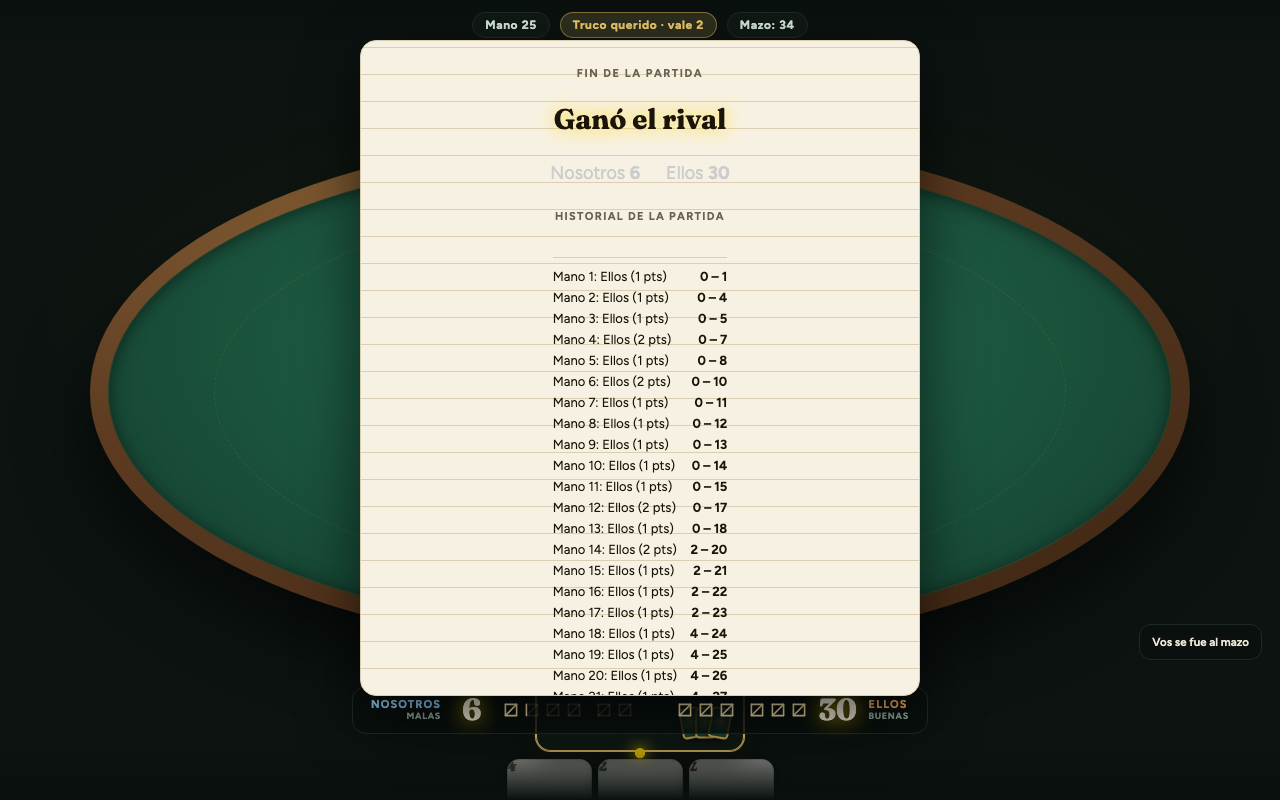
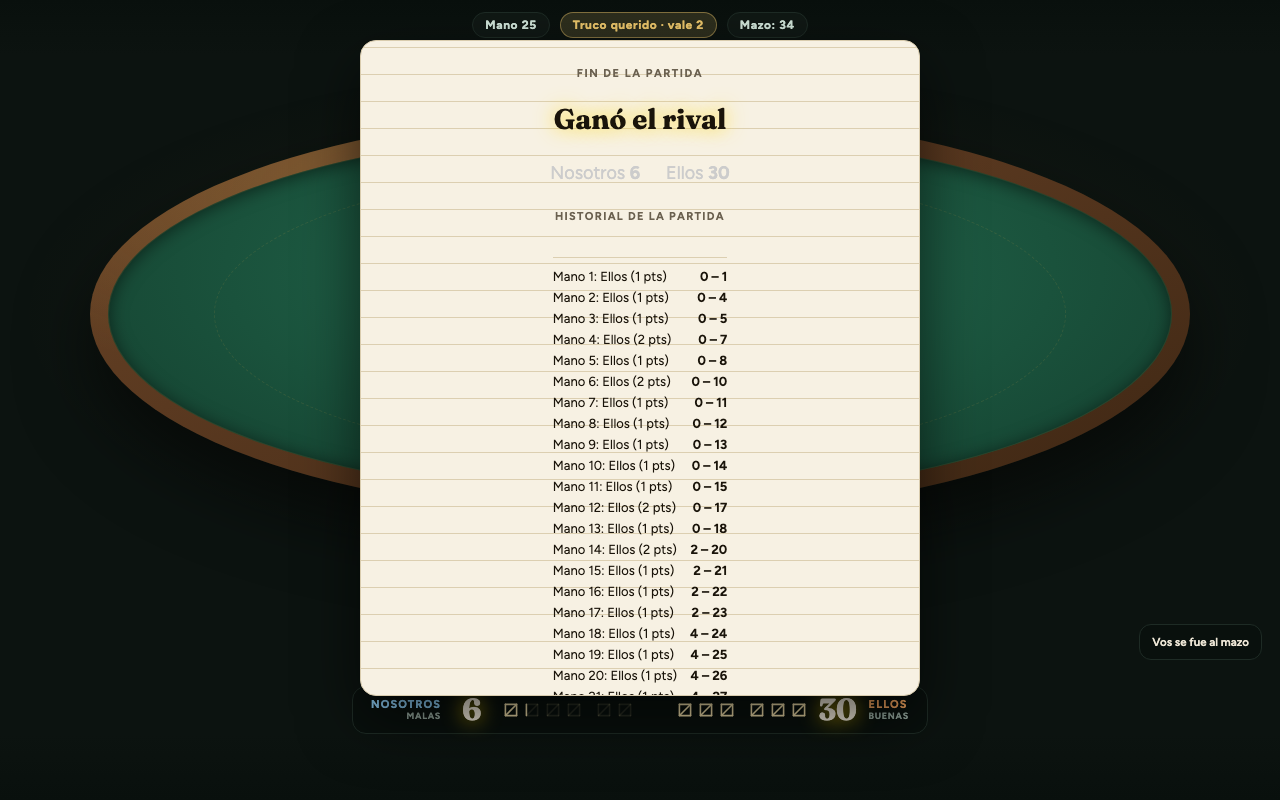
fix(ui-04): layout sobre .felt-room + clamp de la mano, tamaños de carta CSS-validos, e2e/layout.spec.ts + axe (AC 12, AC 14)

Changed region(s): [[0.7188, 0.1562, 0.9375, 0.7812], [0.0625, 0.1562, 0.2812, 0.7812], [0.375, 0.9062, 0.625, 1.0]]

diff --git a/src/ui/UIManager.ts b/src/ui/UIManager.ts
@@ -349,7 +349,7 @@ export class UIManager {
 
   /** Dimensiona la mesa y posiciona la elipse según el viewport actual. */
   private layoutTable(board: HTMLElement, playerCount: number): void {
-    const vp: Viewport = { width: window.innerWidth, height: window.innerHeight };
+    const vp: Viewport = this.tableViewport();
     const mobile = this.isMobile;
     const { w: seatW, h: seatH } = this.seatBox();
     const ellipse = tableEllipse(vp, { seatWidth: seatW, seatHeight: seatH });
@@ -406,12 +406,29 @@ export class UIManager {
     return this.isMobile ? { w: 118, h: 54 } : { w: 200, h: 72 };
   }
 
+  /** Altura que ocupa la mano propia debajo del asiento (xl 186 / lg 156 + margen). */
+  private handExtra(): number {
+    return this.isMobile ? 168 : 202;
+  }
+
+  /**
+   * Viewport de juego real: el rectángulo de `.felt-room` (dentro de la sala
+   * viven asientos y mano; arriba/top-bar y abajo/marcador+controles son overlays).
+   */
+  private tableViewport(): Viewport {
+    const room = this.container.querySelector<HTMLElement>('.felt-room');
+    if (room && room.clientHeight > 0) {
+      return { width: room.clientWidth, height: room.clientHeight };
+    }
+    return { width: window.innerWidth, height: window.innerHeight };
+  }
+
   private renderPlayers(params: RenderParams): void {
     const board = this.container.querySelector('.game-board');
     const seatsLayer = this.container.querySelector('.seats-layer');
     if (!board || !seatsLayer) return;
 
-    const vp: Viewport = { width: window.innerWidth, height: window.innerHeight };
+    const vp: Viewport = this.tableViewport();
     const { w: seatW, h: seatH } = this.seatBox();
 
     // Baza actual para saber quién ya jugó (sus dorsos bajan).
@@ -425,7 +442,10 @@ export class UIManager {
     for (const player of params.players) {
       const hand = params.hands[player.id] || [];
       const isHuman = player.isHuman;
-      const slot = seatPosition(player.position, params.players.length, vp, { seatWidth: seatW, seatHeight: seatH });
+      // La mano del humano cuelga debajo del asiento: entra en el clamp del layout.
+      const extraBelow = isHuman ? this.handExtra() : 0;
+      const slot = seatPosition(player.position, params.players.length, vp,
+        { seatWidth: seatW, seatHeight: seatH, extraBelow });
 
       const wrap = document.createElement('div');
       wrap.className = 'seat-slot' + (player.isHuman ? ' human-area' : '');
@@ -533,14 +553,18 @@ export class UIManager {
       for (const played of result.cards) {
         const player = params.players.find((p) => p.id === played.playerId);
         if (!player) continue;
-        const vp: Viewport = { width: window.innerWidth, height: window.innerHeight };
+        const vp: Viewport = this.tableViewport();
         const box = this.seatBox();
         const slot = seatPosition(player.position, params.players.length, vp,
           { seatWidth: box.w, seatHeight: box.h });
+        // 25 % del camino entre el centro del paño y el asiento (no tapa la silla).
+        const ell = tableEllipse(vp, { seatWidth: box.w, seatHeight: box.h });
+        const sx = slot.x + box.w / 2;
+        const sy = slot.y + box.h / 2;
         const holder = document.createElement('div');
         holder.className = 'history-round';
-        holder.style.left = `${slot.x + box.w / 2}px`;
-        holder.style.top = `${slot.y}px`;
+        holder.style.left = `${ell.cx + (sx - ell.cx) * 0.25}px`;
+        holder.style.top = `${ell.cy + (sy - ell.cy) * 0.25}px`;
         holder.insertAdjacentHTML('beforeend', renderCard(played.card, {
           size: 'xs',
           state: result.highestCardPlayerId === played.playerId && result.teamWinner !== -1 ? 'winner' : 'normal',

diff --git a/src/ui/layout.ts b/src/ui/layout.ts
@@ -28,6 +28,8 @@ export interface SeatPoint {
 export interface SeatOptions {
   seatWidth?: number;
   seatHeight?: number;
+  /** Altura extra debajo del asiento (la mano del humano); se descuenta del clamp inferior. */
+  extraBelow?: number;
 }
 
 /** Ángulo por slot de asiento según la cantidad de jugadores (slot = posición del jugador). */
@@ -43,12 +45,13 @@ export const SLOT_ANGLES: Record<number, number[]> = {
 export function tableEllipse(viewport: Viewport, options: SeatOptions = {}) {
   const seatW = options.seatWidth ?? 200;
   const seatH = options.seatHeight ?? 72;
+  const extra = options.extraBelow ?? 0;
   const cx = viewport.width / 2;
   const cy = viewport.height * 0.42;
-  // Radios máximos que mantienen el asiento (con su caja) dentro del viewport con 8 px de margen.
+  // Radios máximos que mantienen el asiento (con su caja + mano debajo) dentro del viewport con 8 px de margen.
   const maxRx = Math.max(0, (viewport.width - seatW) / 2 - 8);
   const maxRyTop = Math.max(0, cy - seatH / 2 - 8);
-  const maxRyBottom = Math.max(0, viewport.height - cy - seatH / 2 - 8);
+  const maxRyBottom = Math.max(0, viewport.height - cy - seatH / 2 - 8 - extra);
   return {
     cx,
     cy,
@@ -74,14 +77,15 @@ export function seatPosition(
   if (index < 0 || index >= playerCount) throw new Error(`seatPosition: índice fuera de rango: ${index}`);
 
   const angle = angles[index];
-  const ellipse = tableEllipse(viewport, { seatWidth: seatW, seatHeight: seatH });
+  const ellipse = tableEllipse(viewport, { seatWidth: seatW, seatHeight: seatH, extraBelow: options.extraBelow });
   const rad = (angle * Math.PI) / 180;
   const x = ellipse.cx + ellipse.rx * Math.cos(rad) - seatW / 2;
   const y = ellipse.cy + ellipse.ry * Math.sin(rad) - seatH / 2;
 
-  // Redoble de seguridad: clamp explícito dentro del viewport.
+  // Redoble de seguridad: clamp explícito dentro del viewport (con la mano debajo).
+  const extra = options.extraBelow ?? 0;
   const clampedX = Math.min(Math.max(x, 8), viewport.width - seatW - 8);
-  const clampedY = Math.min(Math.max(y, 8), viewport.height - seatH - 8);
+  const clampedY = Math.min(Math.max(y, 8), viewport.height - seatH - extra - 8);
   return { x: Math.round(clampedX), y: Math.round(clampedY), angle };
 }
 

diff --git a/src/styles.css b/src/styles.css
@@ -1218,7 +1218,7 @@ button.card--playable:hover, button.card--playable:focus-visible { transform: tr
 .seat-played { position: relative; height: 0; display: flex; justify-content: center; z-index: 6; }
 .history-round { position: absolute; z-index: 4; transform: translate(-50%, -50%); }
 .played-card { pointer-events: none; }
-.played-card--history { transform: translate(-50%, -50%) rotate(-4deg); opacity: 0.92; }
+.played-card--history { transform: rotate(-4deg); }
 .seat-slot[data-seat-anchor="top"] .seat-played { order: -1; }
 
 /* Globo de canto (AC 8) */
@@ -1466,7 +1466,7 @@ button.card--playable:hover, button.card--playable:focus-visible { transform: tr
 .round-chip--t1 { color: var(--ellos-ink); background: var(--ellos-soft); border-color: var(--ellos-ink); }
 .hand-history { margin-top: 12px; border-top: 1px solid var(--paper-line); padding-top: 8px; }
 .hand-history-header { font-size: 11px; font-weight: 800; letter-spacing: 0.12em; text-transform: uppercase; color: var(--paper-ink-soft); margin-bottom: 6px; }
-.hand-row { display: flex; justify-content: space-between; gap: 12px; font-size: 13px; padding: 3px 0; border-bottom: 1px dotted var(--paper-line-2); }
+.paper-panel .hand-row { display: flex; justify-content: space-between; gap: 12px; font-size: 13px; padding: 3px 0; border-bottom: 1px dotted var(--paper-line-2); }
 .hand-entry { display: flex; justify-content: space-between; gap: 12px; font-size: 13px; padding: 3px 0; }
 .hand-entry-score { font-weight: 800; }
 .match-meta { display: flex; gap: 18px; margin: 10px 0; font-size: 13px; color: var(--paper-ink-mid); }

diff --git a/src/ui/cardView.ts b/src/ui/cardView.ts
@@ -109,7 +109,7 @@ export function renderCard(card: CardViewData, options: CardRenderOptions = {}):
   }
 
   const face =
-    `<div class="card-face suit-${card.suit}" style="${boxStyle}--cr2:${r2}px;--cframe:${frame}px;--cpad:${s.pad}px;--cpadt:${padT}px;--cnum:${s.num}px;--cpip:${s.pip}px;--cfig:${s.fig}px;">`
+    `<div class="card-face suit-${card.suit}" style="${boxStyle}--cr2:${r2};--cframe:${frame};--cpad:${s.pad};--cpadt:${padT};--cnum:${s.num};--cpip:${s.pip};--cfig:${s.fig};">`
     + `<div class="card-frame"></div>`
     + `<div class="card-corner card-corner--tl"><span class="card-number">${number}</span>`
     + (hasFig ? `<span class="card-figure">${figLabel}</span>` : '')
@@ -121,7 +121,7 @@ export function renderCard(card: CardViewData, options: CardRenderOptions = {}):
   const winnerTag = state === 'winner'
     ? `<span class="card-winner-tag">${escapeHtml(options.tag ?? 'Va ganando')}</span>`
     : '';
-  const winnerRing = state === 'winner' ? `<span class="card-winner-ring" style="--crw:${s.r + 5}px;"></span>` : '';
+  const winnerRing = state === 'winner' ? `<span class="card-winner-ring" style="--crw:${s.r + 5};"></span>` : '';
 
   const inner = face + winnerRing + winnerTag;
 

diff --git a/e2e/layout.spec.ts b/e2e/layout.spec.ts
@@ -180,6 +180,8 @@ for (const [w, h, label] of [[1280, 800, 'desktop'], [390, 844, 'movil']] as con
     await driver.start(4);
     await advanceToHumanWithTrick(page, driver);
     await ensureTrickCards(page, driver);
+    // El reloj congelado traba los timers internos de axe: devolver el tiempo real.
+    await page.clock.resume();
 
     const results = await new AxeBuilder({ page })
       .withTags(['wcag2a', 'wcag2aa', 'wcag21a', 'wcag21aa'])

diff --git a/docs/stories/0-4-ui-mesa-v2-legacy.md b/docs/stories/0-4-ui-mesa-v2-legacy.md
@@ -1,6 +1,6 @@
 # Historia 0-4: UI "mesa v2" sobre el juego actual
 
-Status: ready-for-dev
+Status: review
 wf-id: `0-4-ui-mesa-v2-legacy` · kind: `default`
 Depende de: 0-3 (mergeada: trae el gate `partidas` sin fallas conocidas y toca `App.ts`)
 
@@ -60,16 +60,16 @@ sobre el motor v2 con el mismo diseño, así que escribí CSS y funciones de ren
 
 ## Tareas
 
-- [ ] Tokens + fuentes (AC 1)
-- [ ] `cardView.ts` con SVG de palos y estados (AC 2)
-- [ ] `layout.ts` + tests unitarios de posiciones (AC 3)
-- [ ] Render de mesa, asientos, baza, centro y marcador (AC 3, 4, 5)
-- [ ] Acciones, panel de respuesta, globos y feed (AC 6, 7, 8)
-- [ ] Avisos, resumen, fin, menú (AC 9)
-- [ ] Celular (AC 10)
-- [ ] Selectores + `data-testid` (AC 11)
-- [ ] `e2e/layout.spec.ts` + capturas (AC 12)
-- [ ] Partidas 10 semillas ×2 (AC 13) y Dev Agent Record
+- [x] Tokens + fuentes (AC 1)
+- [x] `cardView.ts` con SVG de palos y estados (AC 2)
+- [x] `layout.ts` + tests unitarios de posiciones (AC 3)
+- [x] Render de mesa, asientos, baza, centro y marcador (AC 3, 4, 5)
+- [x] Acciones, panel de respuesta, globos y feed (AC 6, 7, 8)
+- [x] Avisos, resumen, fin, menú (AC 9)
+- [x] Celular (AC 10)
+- [x] Selectores + `data-testid` (AC 11)
+- [x] `e2e/layout.spec.ts` + capturas (AC 12)
+- [x] Partidas 10 semillas ×2 (AC 13) y Dev Agent Record
 
 ## Dev Notes
 
@@ -101,9 +101,50 @@ PARTIDAS_SEEDS=1,2,3,4,5,6,7,8,9,10 npm run test:partidas   # 2 veces, mismas fi
 ## Dev Agent Record
 
 ### Agent Model Used
+Hermes perfil `trucoai` · modelo `qwen3.8-flash` (provider custom) · sesión 2026-09-24
+
 ### Debug Log References
+- `workflow/runs/0-4-ui-mesa-v2-legacy/implementation.md` (evidencia de verificación completa)
+- Fix clave 1: `--cnum`/`--cr2`/`--cframe` ya no llevan `px` en `cardView.ts` — `calc(var(--cnum) * 1px)` quedaba inválido y el número caía al `font-size` heredado (13 px en celular, AC 12 fallaba).
+- Fix clave 2: el layout de asientos usa el rectángulo de `.felt-room` (`tableViewport()`), no `window.innerHeight`, y descuenta la mano del humano (`extraBelow`) del clamp inferior — antes el asiento de abajo + cartas se salían del viewport (AC 12).
+- Fix clave 3: axe no funciona con el reloj congelado de Playwright (`page.clock`); los tests axe hacen `page.clock.resume()` antes de `analyze()`.
+
 ### Completion Notes List
+- AC 1–14 cumplidos. UI "mesa v2" integrada sobre el juego legacy sin tocar `src/core/` (ver `git diff main..HEAD`: solo `src/ui/*`, `src/styles.css`, `src/App.ts`, `index.html`, `e2e/*`, `docs/design/capturas/*`, `package.json`/lock).
+- El driver legacy (`e2e/driver/legacy.ts`) NO necesitó cambios: `.human-area`, `.player-area.active-turn`, `.clickable`, `.team-points`, `.btn-*`, `.response-panel` y `.controls button` se conservan en el markup nuevo (AC 11).
+- `SLOT_ANGLES[4] = [90, 180, 270, 0]`: la posición 2 (compañero del humano, `team = posición % 2` en App.ts) va arriba — AC 3.
+- `npm run test:partidas` ahora incluye `e2e/layout.spec.ts` (AC 12 pide que el gate lo corra).
+- Partidas 10 semillas ×2: 45/45 verdes y **firmas idénticas entre corridas** (AC 13). Firma 4p seed 7 = `060f523c` (coincide con la de 0-3: el orden de lectura del DOM no cambió).
+- axe (AC 14): sin violaciones serious/critical en 4p desktop y 4p celular.
+- Riesgo conocido: `handExtra()` es una estimación (186/156 px de carta + margen); si el diseño de la mano del humano cambia de tamaño, revisar el clamp.
+
+### Firmas de partidas (2026-09-24, corrida 1 = corrida 2)
+```
+2p: s1 8cecd082 · s2 f7dd6a2b · s3 14261841 · s4 e83ada44 · s5 9fad1cd3
+    s6 9282bdf1 · s7 87af1062 · s8 b8f89856 · s9 f6109c73 · s10 cc430264
+4p: s1 94859c94 · s2 bae7e12c · s3 a2e8fcbc · s4 03d51ded · s5 0bcda204
+    s6 7b314153 · s7 060f523c · s8 42137fb3 · s9 f46d6f23 · s10 edb50a9a
+6p: s1 734ea70d · s2 f134a7d3 · s3 294f6d2f · s4 00eeb109 · s5 e05c1d66
+    s6 32a9b30e · s7 7296f4d7 · s8 e2339a7e · s9 6e9f1d76 · s10 5199c0fe
+nueva: 2p 8cecd082 · 4p 94859c94 · 6p 734ea70d
+determinismo 4p seed 7: 060f523c == 060f523c
+```
+
 ### File List
+- `index.html` — fuentes Fraunces/Figtree (preconnect + link)
+- `src/styles.css` — tokens `:root`, piezas v2 (carta, mesa elíptica, asiento, marcador, paneles de papel, celular)
+- `src/ui/escape.ts` — `escapeHtml` (nuevo)
+- `src/ui/cardView.ts` — `renderCard` con SVG de palos, tamaños/estados (nuevo)
+- `src/ui/layout.ts` — `tableEllipse`/`seatPosition`/`SLOT_ANGLES` (nuevo)
+- `src/ui/seatView.ts` — `renderSeat`/`seatInitials` (nuevo)
+- `src/ui/scoreView.ts` — `renderScore`/fósforos (nuevo)
+- `src/ui/boardView.ts` — top bar, indicador de bazas, feed, globo (nuevo)
+- `src/ui/UIManager.ts` — render de mesa v2, integración de componentes, panel de respuesta, feed/globos, celular
+- `src/App.ts` — listeners de feed/globos, `setBusy`, (sin cambios de lógica de juego)
+- `src/ui/__tests__/cardView.test.ts`, `src/ui/__tests__/layout.test.ts`, `src/ui/__tests__/seatScoreView.test.ts` — tests unitarios (nuevos)
+- `e2e/layout.spec.ts` — test de layout 2/4/6 × 3 viewports + axe (nuevo)
+- `docs/design/capturas/*.png` — 9 capturas AC 12 (nuevo)
+- `package.json` / `package-lock.json` — devDeps: `jsdom`, `@types/jsdom`, `@axe-core/playwright`; `test:partidas` incluye `layout.spec.ts`
 
 ## Change Log
 - 2026-09-23 · Claude (SM/UX) · Historia creada a pedido de Emmanuel ("no se ven las cartas; rediseñame toda la UI y la UX"), diseño aprobado para aplicar ya.
